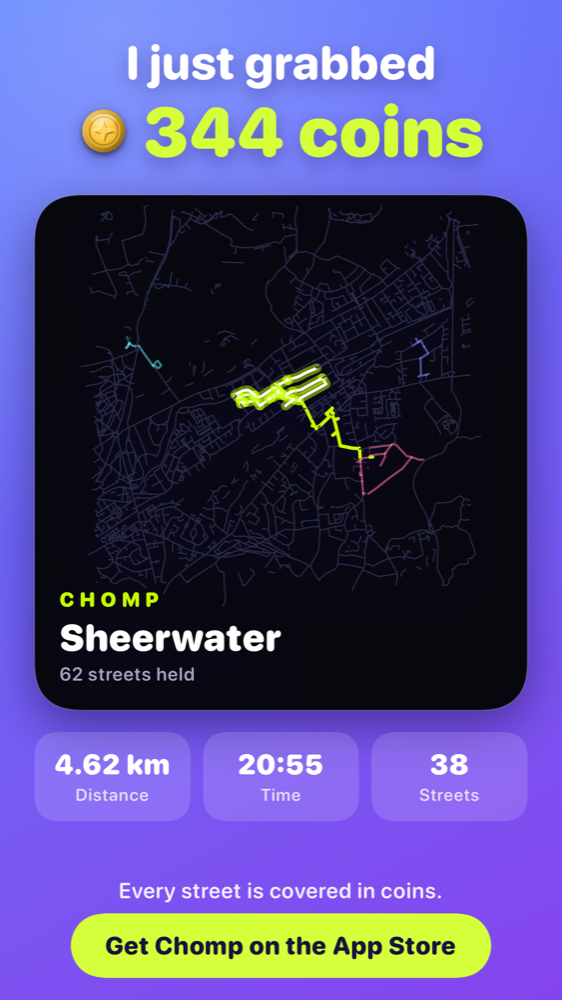
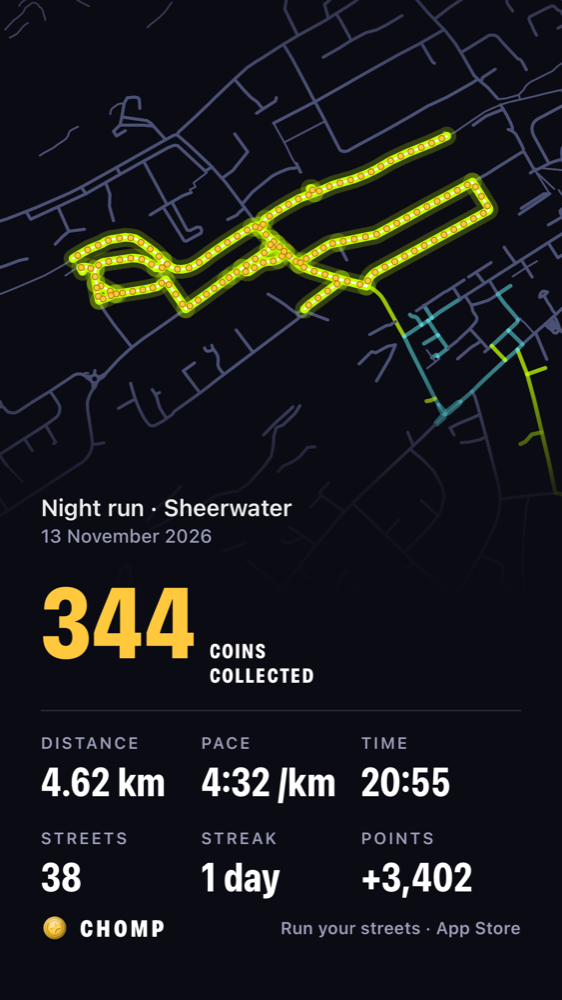
Story share card redesign: zoomed run map, condensed stats, coins collected
Claude-Session: https://claude.ai/code/session_01FMtq8DZr1tgLvzrY33xyjw

diff --git a/ios/Chomp/Summary/RunSummaryView.swift b/ios/Chomp/Summary/RunSummaryView.swift
@@ -282,18 +282,28 @@ struct RunSummaryView: View {
         return r.uiImage.map { Image(uiImage: $0) }
     }
 
-    /// 9:16 card for Instagram/TikTok Stories: the coins headline, this run's streets and a "Get Chomp" footer.
+    /// 9:16 card for Instagram/TikTok Stories: this run's streets up close, coins and stats.
     @MainActor
     private func renderStory() -> Image? {
         let coins = record.tokens ?? model.tokens(of: outcome, in: model.area)
+        let miles = model.profile.useMiles
+        let unit = miles ? 1609.344 : 1000.0
+        let pace = record.distance > 0 ? record.movingTime / (record.distance / unit) : 0
+        let hour = Calendar.current.component(.hour, from: record.startedAt)
+        let when = hour < 5 ? "Night run" : hour < 12 ? "Morning run" : hour < 17 ? "Afternoon run" : hour < 21 ? "Evening run" : "Night run"
         let card = StoryCard(
-            poster: TerritoryPoster(area: model.area, state: model.state, me: model.state.me, colorHex: model.profile.colorHex,
-                                    highlight: Set(ordered.map(\.segmentID)), title: model.placeName,
-                                    subtitle: "\(model.progress.heldSegments) streets held", ownerColor: model.ownerColor),
-            coins: coins, stolen: outcome.stolen.count,
-            stats: [(formatDistance(record.distance, miles: model.profile.useMiles), "Distance"),
-                    (RunMath.formatDuration(record.movingTime), "Time"),
-                    ("\(outcome.gained.count)", outcome.gained.count == 1 ? "Street" : "Streets")],
+            map: StoryMap(area: model.area, state: model.state, me: model.state.me, colorHex: model.profile.colorHex,
+                          run: Set(ordered.map(\.segmentID)), zones: model.profile.privacyZones, ownerColor: model.ownerColor),
+            title: "\(when) · \(model.placeName)",
+            date: record.startedAt.formatted(.dateTime.day().month(.wide).year()),
+            coins: coins,
+            stats: [("Distance", formatDistance(record.distance, miles: miles)),
+                    ("Pace", RunMath.formatPace(pace) + (miles ? " /mi" : " /km")),
+                    ("Time", RunMath.formatDuration(record.movingTime))],
+            extras: [("Streets", "\(outcome.gained.count)"),
+                     outcome.stolen.isEmpty ? ("Streak", model.streak.current > 0 ? "\(model.streak.current) days" : "1 day")
+                                            : ("Stolen", "\(outcome.stolen.count)"),
+                     ("Points", "+\(outcome.totalPoints.formatted())")],
             colorHex: model.profile.colorHex)
         let r = ImageRenderer(content: card.frame(width: 360, height: 640))
         r.scale = 3
@@ -375,61 +385,145 @@ struct TerritoryPoster: View {
     }
 }
 
-/// Instagram Story card (1080x1920 when rendered at 3x).
-struct StoryCard: View {
-    let poster: TerritoryPoster
-    let coins: Int
-    let stolen: Int
-    let stats: [(String, String)]
+/// The streets of one run, zoomed in, for the Story card. Streets inside privacy
+/// zones are drawn like any other street (never highlighted).
+struct StoryMap: View {
+    let area: Area
+    let state: GameState
+    let me: OwnerRef
     let colorHex: String
-
-    private let lime = Color(hex: "D4FF3A")
+    let run: Set<SegmentID>
+    let zones: [PrivacyZone]
+    let ownerColor: (OwnerRef) -> String
 
     var body: some View {
-        ZStack {
-            LinearGradient(colors: [Color(hex: "4F7BFF"), Color(hex: "8640EC")], startPoint: .topLeading, endPoint: .bottomTrailing)
-            RadialGradient(colors: [.white.opacity(0.25), .clear], center: UnitPoint(x: 0.2, y: 0.08), startRadius: 0, endRadius: 330)
-            VStack(spacing: 14) {
-                Spacer(minLength: 46)
-                VStack(spacing: 0) {
-                    Text("I just grabbed").font(.system(size: 30, weight: .heavy, design: .rounded)).foregroundStyle(.white)
-                    HStack(spacing: 8) {
-                        Image(uiImage: CoinIcon.render(colorHex: "FFC83D")).resizable().frame(width: 34, height: 34)
-                        Text("\(coins) coin\(coins == 1 ? "" : "s")").font(.system(size: 44, weight: .black, design: .rounded)).foregroundStyle(lime)
-                    }
-                    if stolen > 0 {
-                        Text("and stole \(stolen) street\(stolen == 1 ? "" : "s") from rivals")
-                            .font(.system(size: 16, weight: .bold, design: .rounded)).foregroundStyle(.white.opacity(0.9)).padding(.top, 4)
-                    }
+        Canvas { ctx, size in
+            let proj = area.projection
+            let hidden = zones.map { (proj.project($0.center), $0.radius + 60) }
+            func inZone(_ seg: Segment) -> Bool {
+                seg.polyline.points.contains { p in hidden.contains { p.distance(to: $0.0) < $0.1 } }
+            }
+            let shown = area.segments.filter { run.contains($0.id) && !inZone($0) }
+            // Frame the run (or the whole area if nothing is shown), at least ~700 m across.
+            var pts = shown.flatMap(\.polyline.points)
+            if pts.isEmpty { pts = area.segments.flatMap(\.polyline.points) }
+            guard let first = pts.first else { return }
+            var lo = first, hi = first
+            for p in pts { lo = Vec2(min(lo.x, p.x), min(lo.y, p.y)); hi = Vec2(max(hi.x, p.x), max(hi.y, p.y)) }
+            let c = Vec2((lo.x + hi.x) / 2, (lo.y + hi.y) / 2)
+            let span = max(hi.x - lo.x, (hi.y - lo.y) * Double(size.width) / Double(size.height * 0.7), 700) * 1.35
+            let scale = Double(size.width) / span
+            func pt(_ v: Vec2) -> CGPoint {
+                CGPoint(x: Double(size.width) / 2 + (v.x - c.x) * scale, y: Double(size.height) * 0.42 - (v.y - c.y) * scale)
+            }
+            func path(_ seg: Segment) -> Path {
+                var p = Path()
+                for (i, v) in seg.polyline.points.enumerated() { i == 0 ? p.move(to: pt(v)) : p.addLine(to: pt(v)) }
+                return p
+            }
+            let mine = Color(hex: colorHex)
+            let shownIDs = Set(shown.map(\.id))
+            // Base streets, then territory, then the run on top.
+            for seg in area.segments where !shownIDs.contains(seg.id) {
+                let p = path(seg)
+                if let owner = state.mainOwner(of: seg, rules: RulesConfig.bundled) {
+                    ctx.stroke(p, with: .color(Color(hex: ownerColor(owner)).opacity(owner == me ? 0.75 : 0.55)),
+                               style: StrokeStyle(lineWidth: 2.6, lineCap: .round, lineJoin: .round))
+                } else {
+                    ctx.stroke(p, with: .color(Color(hex: "4B5175")), style: StrokeStyle(lineWidth: seg.isPath ? 1.2 : 2, lineCap: .round, lineJoin: .round))
                 }
-                .shadow(color: Color(hex: "1A0F55").opacity(0.35), radius: 6, y: 3)
-                poster
-                    .frame(height: 330)
-                    .clipShape(RoundedRectangle(cornerRadius: 26))
-                    .overlay(RoundedRectangle(cornerRadius: 26).stroke(.white.opacity(0.15), lineWidth: 1))
-                    .shadow(color: Color(hex: "140A40").opacity(0.5), radius: 16, y: 10)
-                    .padding(.horizontal, 22)
-                HStack(spacing: 8) {
-                    ForEach(Array(stats.enumerated()), id: \.offset) { _, s in
-                        VStack(spacing: 2) {
-                            Text(s.0).font(.system(size: 18, weight: .black, design: .rounded)).foregroundStyle(.white)
-                            Text(s.1).font(.system(size: 11, weight: .semibold, design: .rounded)).foregroundStyle(.white.opacity(0.75))
-                        }
-                        .frame(maxWidth: .infinity).padding(.vertical, 10)
-                        .background(.white.opacity(0.14), in: RoundedRectangle(cornerRadius: 14))
-                    }
+            }
+            for seg in shown {
+                let p = path(seg)
+                ctx.stroke(p, with: .color(mine.opacity(0.22)), style: StrokeStyle(lineWidth: 12, lineCap: .round, lineJoin: .round))
+                ctx.stroke(p, with: .color(mine), style: StrokeStyle(lineWidth: 5.5, lineCap: .round, lineJoin: .round))
+            }
+            for seg in shown {
+                ctx.stroke(path(seg), with: .color(.white.opacity(0.9)), style: StrokeStyle(lineWidth: 1.4, lineCap: .round, lineJoin: .round))
+            }
+            // Coins along the run's streets, like the map.
+            let gold = Color(hex: "FFC83D"), rim = Color(hex: "B07A00")
+            for seg in shown {
+                // One dot per ~30 m keeps the route readable.
+                let n = max(1, Int((seg.length / 30).rounded()))
+                for i in 0..<n {
+                    let q = pt(seg.polyline.point(at: (Double(i) + 0.5) * seg.length / Double(n)))
+                    let r: CGFloat = 2.2
+                    ctx.fill(Path(ellipseIn: CGRect(x: q.x - r, y: q.y - r, width: 2 * r, height: 2 * r)), with: .color(rim))
+                    ctx.fill(Path(ellipseIn: CGRect(x: q.x - r + 0.6, y: q.y - r + 0.6, width: 2 * r - 1.2, height: 2 * r - 1.2)), with: .color(gold))
                 }
-                .padding(.horizontal, 22)
-                Spacer(minLength: 8)
-                VStack(spacing: 6) {
-                    Text("Every street is covered in coins.").font(.system(size: 14, weight: .semibold, design: .rounded)).foregroundStyle(.white.opacity(0.9))
-                    Text("Get Chomp on the App Store")
-                        .font(.system(size: 16, weight: .heavy, design: .rounded)).foregroundStyle(Color(hex: "16123A"))
-                        .padding(.horizontal, 22).padding(.vertical, 11)
-                        .background(lime, in: Capsule())
-                }
-                .padding(.bottom, 52)
             }
         }
+    }
+}
+
+/// Instagram Story card (1080x1920 when rendered at 3x), laid out like a training
+/// app's share card: the map up top, condensed stats below.
+struct StoryCard: View {
+    let map: StoryMap
+    let title: String
+    let date: String
+    let coins: Int
+    let stats: [(String, String)]
+    let extras: [(String, String)]
+    let colorHex: String
+
+    private let ink = Color(hex: "0B0B14")
+    private let muted = Color(hex: "9A9DB8")
+
+    private func label(_ s: String) -> some View {
+        Text(s.uppercased()).font(.system(size: 10.5, weight: .semibold)).tracking(1.2).foregroundStyle(muted)
+    }
+    private func value(_ s: String, size: CGFloat) -> some View {
+        Text(s).font(.system(size: size, weight: .bold).width(.condensed)).foregroundStyle(.white).lineLimit(1).fixedSize()
+    }
+
+    var body: some View {
+        ZStack(alignment: .top) {
+            ink
+            map.frame(width: 360, height: 420).clipped()
+                .overlay(alignment: .bottom) {
+                    LinearGradient(colors: [ink.opacity(0), ink.opacity(0.85), ink], startPoint: .top, endPoint: .bottom).frame(height: 150)
+                }
+                .overlay(alignment: .top) {
+                    LinearGradient(colors: [ink.opacity(0.7), ink.opacity(0)], startPoint: .top, endPoint: .bottom).frame(height: 90)
+                }
+            VStack(alignment: .leading, spacing: 0) {
+                Spacer().frame(height: 350)
+                Text(title).font(.system(size: 15, weight: .semibold)).foregroundStyle(.white.opacity(0.92)).lineLimit(1)
+                Text(date).font(.system(size: 12, weight: .medium)).foregroundStyle(muted).padding(.top, 2)
+                HStack(alignment: .firstTextBaseline, spacing: 8) {
+                    Text(coins.formatted()).font(.system(size: 64, weight: .heavy).width(.condensed)).foregroundStyle(Color(hex: "FFC83D"))
+                    Text("COINS\nCOLLECTED").font(.system(size: 13, weight: .heavy).width(.condensed)).tracking(0.8)
+                        .foregroundStyle(.white).lineSpacing(-2)
+                }
+                .padding(.top, 10)
+                Rectangle().fill(.white.opacity(0.12)).frame(height: 1).padding(.vertical, 14)
+                HStack(alignment: .top, spacing: 0) {
+                    ForEach(Array(stats.enumerated()), id: \.offset) { _, s in
+                        VStack(alignment: .leading, spacing: 3) { label(s.0); value(s.1, size: 26) }
+                            .frame(maxWidth: .infinity, alignment: .leading)
+                    }
+                }
+                HStack(alignment: .top, spacing: 0) {
+                    ForEach(Array(extras.enumerated()), id: \.offset) { _, s in
+                        VStack(alignment: .leading, spacing: 3) { label(s.0); value(s.1, size: 26) }
+                            .frame(maxWidth: .infinity, alignment: .leading)
+                    }
+                    ForEach(0..<max(0, stats.count - extras.count), id: \.self) { _ in Color.clear.frame(maxWidth: .infinity, maxHeight: 1) }
+                }
+                .padding(.top, 14)
+                Spacer()
+                HStack(spacing: 7) {
+                    Image(uiImage: CoinIcon.render(colorHex: "FFC83D")).resizable().frame(width: 18, height: 18)
+                    Text("CHOMP").font(.system(size: 15, weight: .black).width(.condensed)).tracking(2).foregroundStyle(.white)
+                    Spacer()
+                    Text("Run your streets · App Store").font(.system(size: 11, weight: .semibold)).foregroundStyle(muted)
+                }
+                .padding(.bottom, 86)
+            }
+            .padding(.horizontal, 26)
+        }
+        .frame(width: 360, height: 640)
     }
 }
